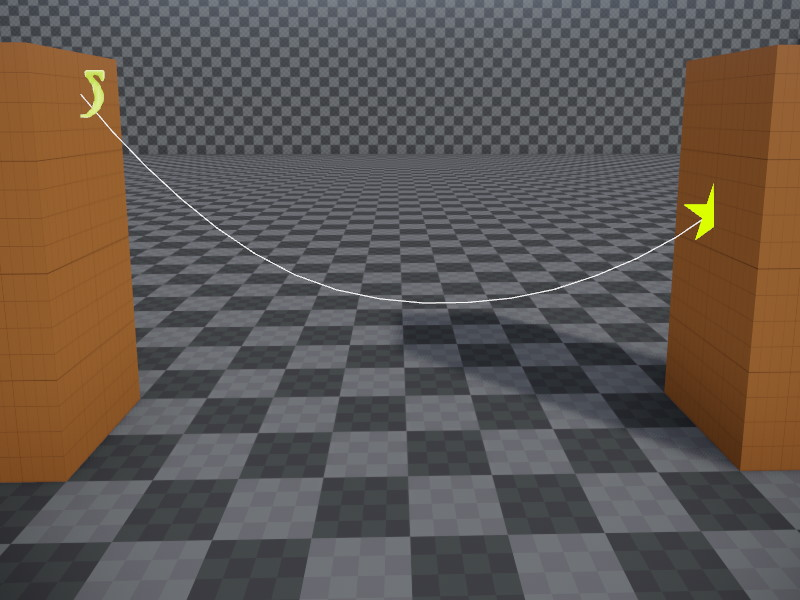
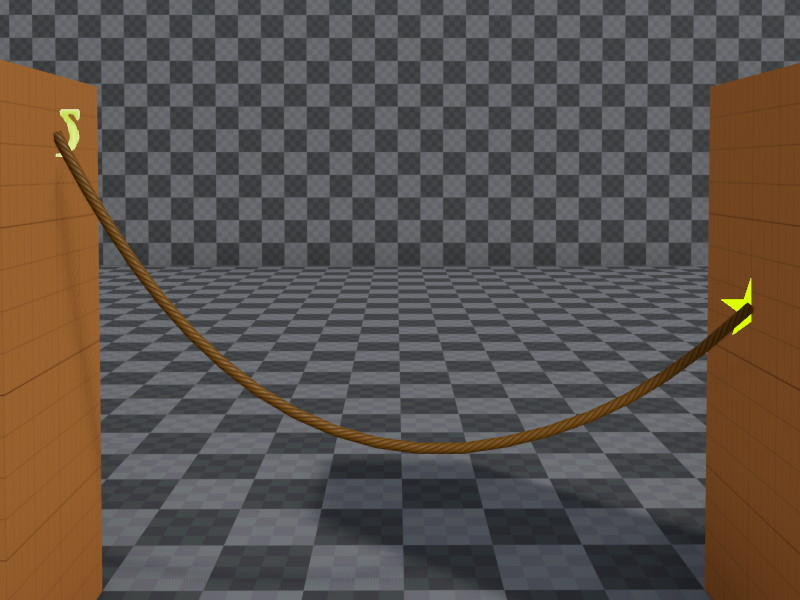
Rope render component
Original commit: 36e0bd2d8c624d2d3f007decd0be5fb739b5645e

diff --git a/pages/docs/effects/rope-render-component.html b/pages/docs/effects/rope-render-component.html
@@ -80,11 +80,17 @@
             <article class="content wrap" id="_content" data-uid="">
 <h1 id="rope-render-component">Rope Render Component</h1>
 
-<p>The <em>rope render component</em> is used to render a rope. The current implementation renders a simple, black line. More options will follow.</p>
-<p>The rope simulation is done by other components, such as the <a href="../physics/special/physx-rope-component.html">PhysX rope component</a>. The rope render component has to be attached to the same object as the simulation component.</p>
+<p>The <em>rope render component</em> is used to render a rope or cable.</p>
+<p><img src="media/rope-rendering.jpg" alt="Rope"></p>
+<p>The rope simulation is done by other components, such as the <a href="../physics/special/physx-rope-component.html">PhysX rope component</a> or the <a href="fake-rope-component.html">fake rope component</a>. The rope render component has to be attached to the same object as the simulation component.</p>
 <h2 id="component-properties">Component Properties</h2>
 <ul>
-<li><code>Color</code>: The color of the rendered lines.</li>
+<li><code>Material</code>: The <a href="../materials/materials-overview.html">material</a> to use for rendering.</li>
+<li><code>Color</code>: The object color. This is typically multiplied into the diffuse part of the material, but the shader may use the color in different ways, as well.</li>
+<li><code>Thickness</code>: The thickness of the rope mesh.</li>
+<li><code>Detail</code>: How many polygons the rope mesh uses to appear round. More detail costs more rendering performance. Note that this has no effect on how many segments the rope is made up of, that is a property of the simulation component.</li>
+<li><code>Subdivide</code>: Whether the rope mesh should have an extra segment subdivision to make it look smoother at strong bends. This doubles the amount of triangles in the mesh. Enable this for ropes that still should look as good as possible even under strong curvature.</li>
+<li><code>UScale</code>: The texture is always wrapped exactly once around the rope. Howver, along the rope's length, this option defines how often it will be repeated.</li>
 </ul>
 <h2 id="see-also">See Also</h2>
 <ul>
